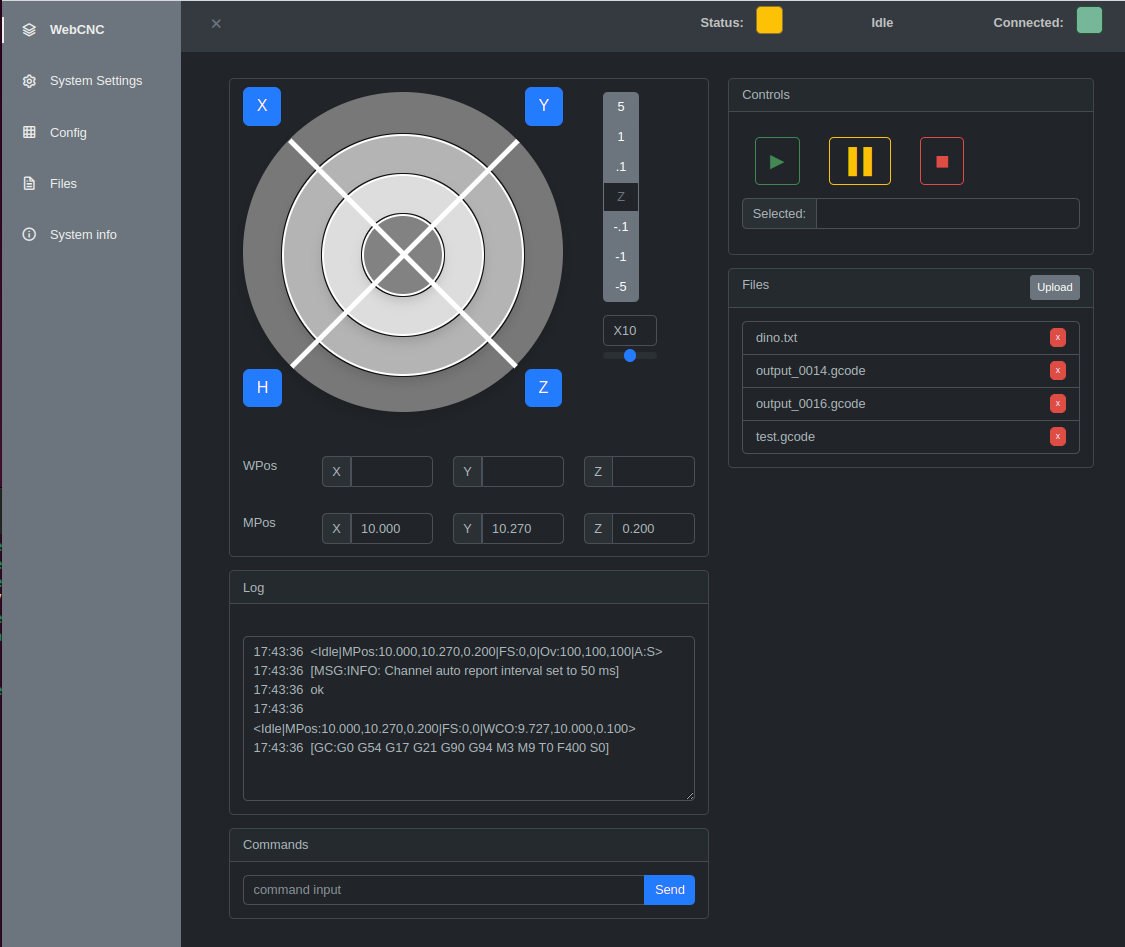
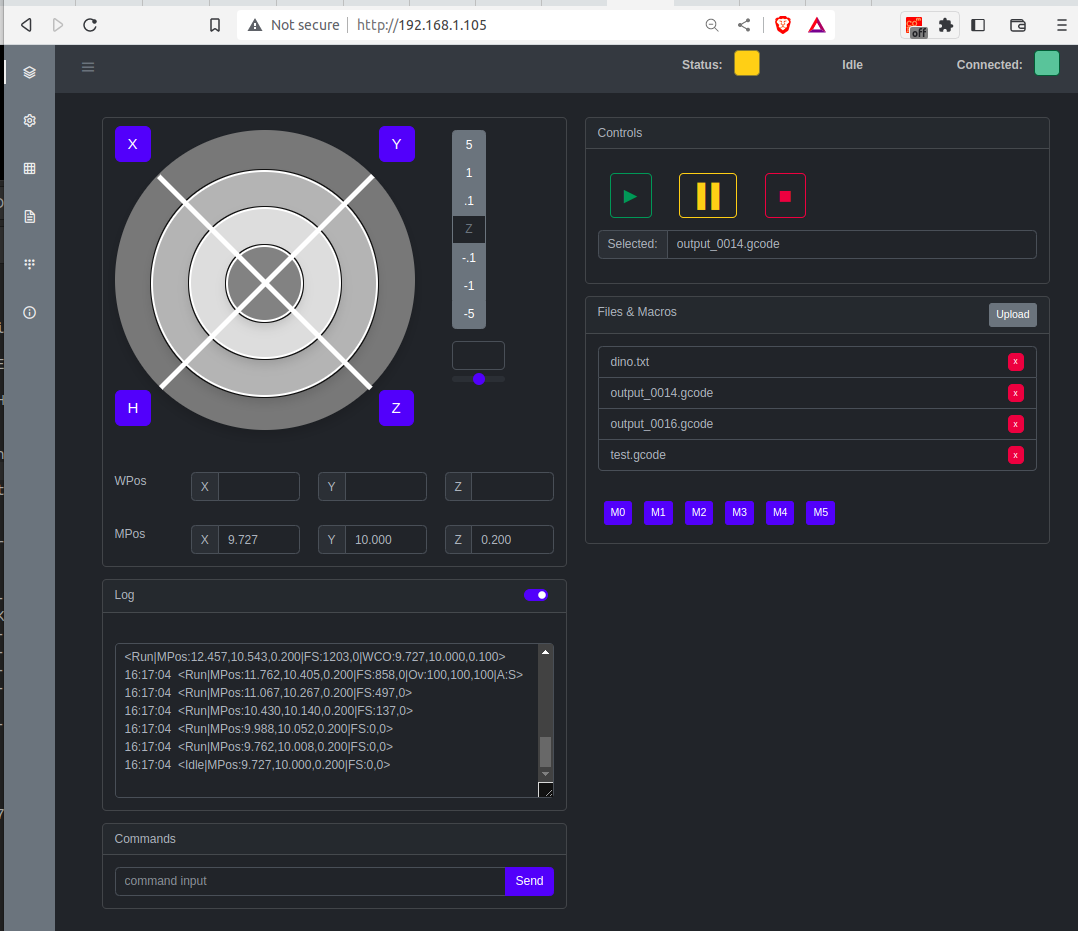
update docs

diff --git a/index.html b/index.html
@@ -140,42 +140,48 @@
 
                         <ul class="nav nav-pills mb-3" id="pills-tab" role="tablist">
                             <li class="nav-item" role="presentation">
-                                <button class="nav-link active" id="pills-macro0-tab" data-bs-toggle="pill" onclick="get_macro(0)"
+                                <button class="nav-link active" id="pills-macro0-tab" data-bs-toggle="pill"
+                                        onclick="get_macro(0)"
                                         data-bs-target="#pills-macro0" type="button" role="tab"
                                         aria-controls="pills-macro0"
                                         aria-selected="true">macro 0
                                 </button>
                             </li>
                             <li class="nav-item" role="presentation">
-                                <button class="nav-link" id="pills-macro1-tab" data-bs-toggle="pill" onclick="get_macro(1)"
+                                <button class="nav-link" id="pills-macro1-tab" data-bs-toggle="pill"
+                                        onclick="get_macro(1)"
                                         data-bs-target="#pills-macro1" type="button" role="tab"
                                         aria-controls="pills-macro1"
                                         aria-selected="false">macro 1
                                 </button>
                             </li>
                             <li class="nav-item" role="presentation">
-                                <button class="nav-link" id="pills-macro2-tab" data-bs-toggle="pill" onclick="get_macro(2)"
+                                <button class="nav-link" id="pills-macro2-tab" data-bs-toggle="pill"
+                                        onclick="get_macro(2)"
                                         data-bs-target="#pills-macro2" type="button" role="tab"
                                         aria-controls="pills-macro2"
                                         aria-selected="false">macro 2
                                 </button>
                             </li>
                             <li class="nav-item" role="presentation">
-                                <button class="nav-link" id="pills-macro3-tab" data-bs-toggle="pill" onclick="get_macro(3)"
+                                <button class="nav-link" id="pills-macro3-tab" data-bs-toggle="pill"
+                                        onclick="get_macro(3)"
                                         data-bs-target="#pills-macro3" type="button" role="tab"
                                         aria-controls="pills-macro3"
                                         aria-selected="false">macro 3
                                 </button>
                             </li>
                             <li class="nav-item" role="presentation">
-                                <button class="nav-link" id="pills-macro4-tab" data-bs-toggle="pill" onclick="get_macro(4)"
+                                <button class="nav-link" id="pills-macro4-tab" data-bs-toggle="pill"
+                                        onclick="get_macro(4)"
                                         data-bs-target="#pills-macro4" type="button" role="tab"
                                         aria-controls="pills-macro4"
                                         aria-selected="false">macro 4
                                 </button>
                             </li>
                             <li class="nav-item" role="presentation">
-                                <button class="nav-link" id="pills-macro5-tab" data-bs-toggle="pill" onclick="get_macro(5)"
+                                <button class="nav-link" id="pills-macro5-tab" data-bs-toggle="pill"
+                                        onclick="get_macro(5)"
                                         data-bs-target="#pills-macro5" type="button" role="tab"
                                         aria-controls="pills-macro5"
                                         aria-selected="false">macro 5
@@ -187,7 +193,7 @@
                         <div class="tab-content" id="pills-tabContent">
                             <div class="tab-pane fade show active" id="pills-macro0" role="tabpanel"
                                  aria-labelledby="pills-macro0-tab" tabindex="0">
-                                    <textarea class="form-control" rows="15" id="macro0"></textarea></div>
+                                <textarea class="form-control" rows="15" id="macro0"></textarea></div>
                             <div class="tab-pane fade" id="pills-macro1" role="tabpanel"
                                  aria-labelledby="pills-macro1-tab"
                                  tabindex="0"><textarea class="form-control" rows="15" id="macro1"></textarea></div>
@@ -204,15 +210,15 @@
                                  aria-labelledby="pills-macro5-tab"
                                  tabindex="0"><textarea class="form-control" rows="15" id="macro5"></textarea></div>
                         </div>
-<!--
-                        <div class="input-group mb-3">
-                            <span class="input-group-text">Name: </span>
-                            <input type="text" class="form-control" id="inputName" aria-label="Name input" aria-describedby="name-default">
-                        </div>
--->
-                            <form onsubmit="event.preventDefault();">
-                                <button id="macro_upload" class="btn btn-primary" >Save Macro</button>
-                            </form>
+                        <!--
+                                                <div class="input-group mb-3">
+                                                    <span class="input-group-text">Name: </span>
+                                                    <input type="text" class="form-control" id="inputName" aria-label="Name input" aria-describedby="name-default">
+                                                </div>
+                        -->
+                        <form onsubmit="event.preventDefault();">
+                            <button id="macro_upload" class="btn btn-primary">Save Macro</button>
+                        </form>
                     </div>
                 </div>
             </div>
@@ -503,6 +509,7 @@
 
     // Your code to run since DOM is loaded and ready
   });
+
 
 </script>
 </body>

diff --git a/js/macros.js b/js/macros.js
@@ -30,7 +30,7 @@ function display_macros(){
     var buttons_display ='';
     var button = '';
     for (let macro in macros_cnf){
-            button += '<button class="btn btn-sm btn-primary m-2" onclick="select_file(\''+ macros_cnf[macro].filename + '\')" >'
+            button += '<button class="btn  btn-primary m-2" onclick="select_file(\''+ macros_cnf[macro].filename + '\')" >'
             button += macros_cnf[macro].name
             button += '</button>';
             buttons_display += button;
@@ -57,9 +57,7 @@ function get_macro(id){
         .then(data => {
             document.getElementById("macro"+ id).textContent = data
         })
-
 }
-
 
 
 document.getElementById('macro_upload').addEventListener('click', handleMacroUpload);

diff --git a/readme.md b/readme.md
@@ -3,14 +3,15 @@
 ### WebCNC
 WebCNC is a browser-based GUI for [FLuidNC](https://github.com/bdring/FluidNC/) machines.
 It runs on any device (laptop, tablet). 
-Websockets are used for communicating to ESP32/FluidNC.
 
 <img src="https://raw.githubusercontent.com/Alex-CodeLab/webcnc/main/docs/jog.png" width="300">
 darkmode
 <img src="https://raw.githubusercontent.com/Alex-CodeLab/webcnc/main/docs/darkmode.png" width="300">
+<img src="https://raw.githubusercontent.com/Alex-CodeLab/webcnc/main/docs/macro_editor.png" width="300">
+
 
 ### Status:
-Alpha
+Alpha 
 
 
 todo:
@@ -23,6 +24,7 @@ todo:
 - [x] track states
 - [x] tooltips
 - [x] start/stop controls
+- [ ] reset button
 - [x] send control signals
 - [ ] send jogspeed
 - [x] read & select files / ssd
@@ -32,8 +34,9 @@ todo:
 - [x] display  system info
 - [x] manage files
 - [ ] manage folders
-- [ ] display macros 
-- [ ] manage macros
+- [x] display macros 
+- [x] manage macros
+- [x] macro editor
 - [x] file upload 
 - [x] create embedded index.html.gz
 - [ ] docs

diff --git a/docs/readme.md b/docs/readme.md
@@ -1,15 +1,4 @@
 
-#### Demo
-
-
-
-#### Connect
-Currently, the IP address of the machine must be configured manually.
-At the top of `websocket.js`, set the ip of your machine (using port `81)
-
-    WebSocket('ws://192.168.1.100:81');
-
-(On succesfull connection, the indicator in the Status tab should be green).
 
 
 #### Darkmode
